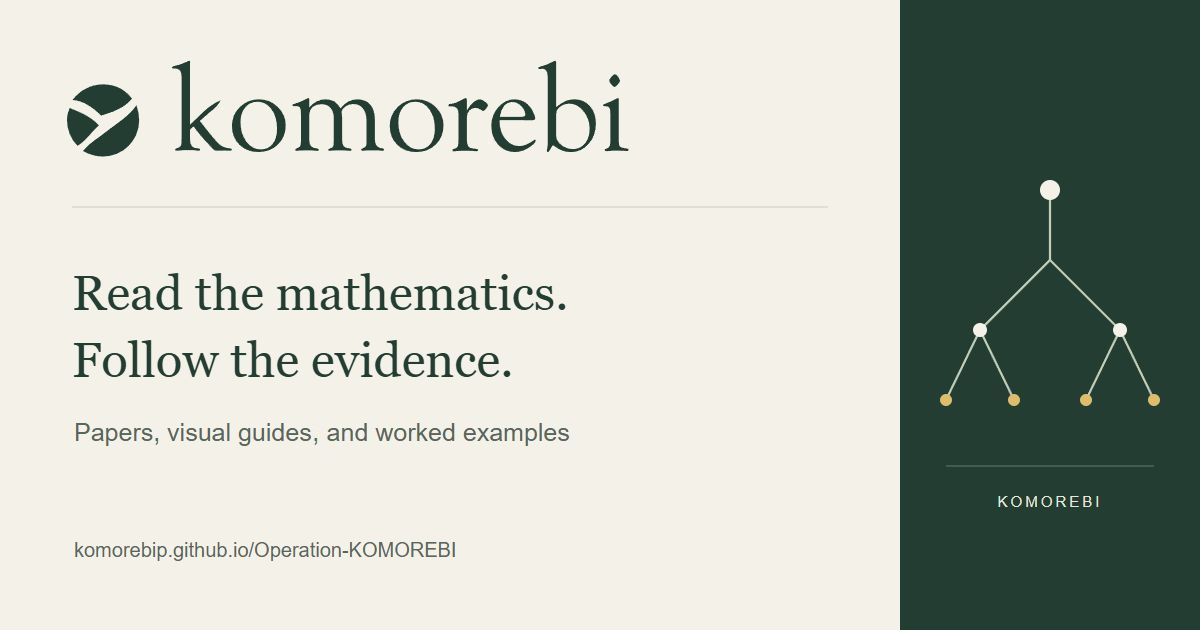
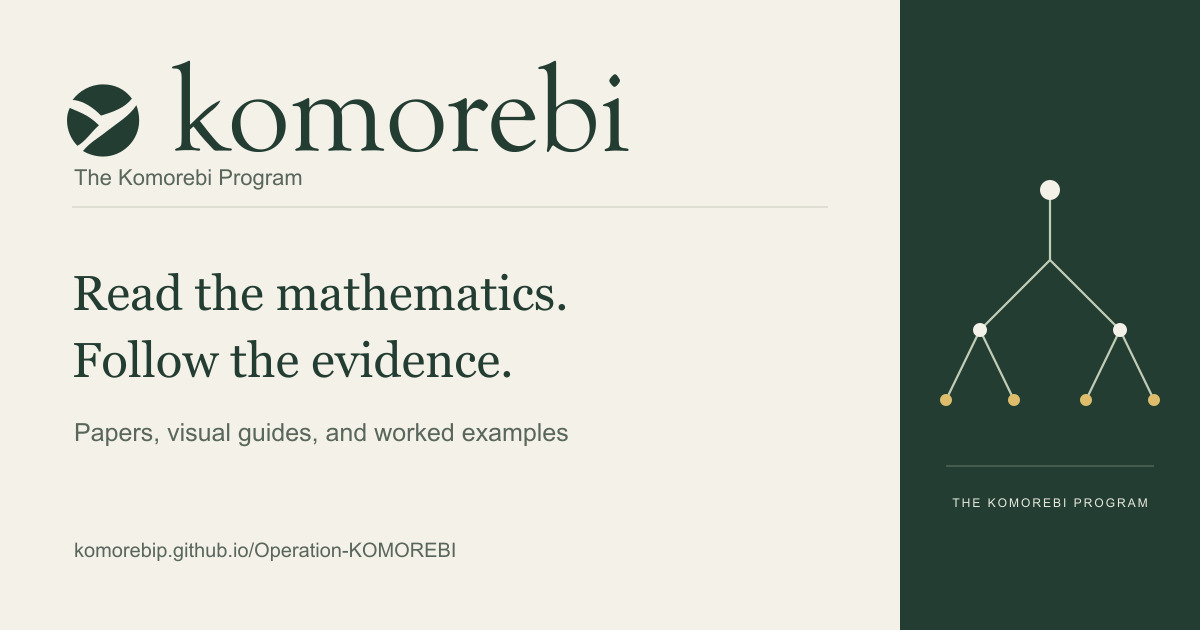
Rename the public project to The Komorebi Program

diff --git a/website/assets/home.css b/website/assets/home.css
@@ -252,7 +252,7 @@ svg.home-tool-icon { padding:.6rem; }
   .home-more > summary,.home-status > summary { font-size:.8rem; }
 }
 @media (max-width:370px) {
-  .home-page .brand small { display:none; }
+  .home-page .brand small { display:block; }
 }
 @media (forced-colors:active) {
   .home-hero::before,.home-route,.home-toolbox,.home-notes,.home-topics,

diff --git a/tools/build_reader_site.py b/tools/build_reader_site.py
@@ -383,14 +383,14 @@ class Site:
 <link rel="icon" type="image/svg+xml" sizes="any" href="'''+brand_assets['favicon.svg']+'''">
 <link rel="icon" type="image/png" sizes="32x32" href="'''+brand_assets['favicon-32.png']+'''">
 <link rel="apple-touch-icon" sizes="180x180" href="'''+brand_assets['apple-touch-icon.png']+'''">
-<title>'''+esc(title)+''' · Komorebi</title><link rel="stylesheet" href="'''+self.rel('assets/reader.css',path)+'?v='+hashlib.sha256((self.root/'website/assets/reader.css').read_bytes()).hexdigest()[:12]+'''">
+<title>'''+esc(title)+''' · The Komorebi Program</title><link rel="stylesheet" href="'''+self.rel('assets/reader.css',path)+'?v='+hashlib.sha256((self.root/'website/assets/reader.css').read_bytes()).hexdigest()[:12]+'''">
 <link rel="stylesheet" href="'''+self.rel('assets/open-research.css',path)+'?v='+hashlib.sha256((self.root/'website/assets/open-research.css').read_bytes()).hexdigest()[:12]+'''">
 <link rel="stylesheet" href="'''+self.rel('assets/side-reader.css',path)+'?v='+hashlib.sha256((self.root/'website/assets/side-reader.css').read_bytes()).hexdigest()[:12]+'''">
 <link rel="stylesheet" href="'''+self.rel('assets/math-display.css',path)+'?v='+hashlib.sha256((self.root/'website/assets/math-display.css').read_bytes()).hexdigest()[:12]+'''">
 <script type="module" src="'''+self.rel('assets/math-display.mjs',path)+'?v='+hashlib.sha256((self.root/'website/assets/math-display.mjs').read_bytes()).hexdigest()[:12]+'''"></script>
 <script defer src="'''+self.rel('assets/mathjax-config.js',path)+'''"></script>'''+mathjax_extra+'''<script defer src="'''+self.rel('assets/mathjax/tex-svg-full.js',path)+'''"></script>
 '''+search_script+'''<script defer src="'''+self.rel('assets/reader.js',path)+'?v='+hashlib.sha256((self.root/'website/assets/reader.js').read_bytes()).hexdigest()[:12]+'''"></script>'''+glossary_script+operator_script+chapter_help_script+home_assets+reading_list_assets+'''</head><body class="open-research'''+(' smith-chart-page' if path=='smith-chart.html' else '')+(' home-page' if path == 'index.html' else '')+(' reading-page' if reading_page else '')+(' work-page' if work_page else '')+(' visual-reading' if visual_page else '')+'''">
-<a class="skip-link" href="#main">Skip to main content</a><header class="site-header"><a class="brand" href="'''+root+'''" aria-label="Komorebi home"><span class="brand-wordmark"><img class="brand-logo" src="'''+brand_assets['komorebi-logo.svg']+'''" alt="Komorebi" width="1320" height="240"><span class="brand-fallback" aria-hidden="true">Komorebi</span><small>Mathematics · proofs · software</small></span></a>'''+nav_html+'''</header>
+<a class="skip-link" href="#main">Skip to main content</a><header class="site-header"><a class="brand" href="'''+root+'''" aria-label="The Komorebi Program home"><span class="brand-wordmark"><img class="brand-logo" src="'''+brand_assets['komorebi-logo.svg']+'''" alt="Komorebi" width="1320" height="240"><span class="brand-fallback" aria-hidden="true">The Komorebi Program</span><small>The Komorebi Program</small></span></a>'''+nav_html+'''</header>
 <main id="main" tabindex="-1">'''+body+'''</main><footer><div class="footer-inner"><nav class="footer-links" aria-label="Project information">'''+source_html+'''<a href="'''+self.rel('collection/PROJECT_STATEMENT.html',path)+'''">Project and authorship statement</a><a href="'''+self.rel('collection/ACCESSIBILITY.html',path)+'''">Accessibility and reporting problems</a><a href="'''+self.rel('sitemap.html',path)+'''">Sitemap</a></nav><a class="footer-github" href="https://github.com/'''+REPOSITORY+'''">Return to GitHub <span aria-hidden="true">↗</span></a></div></footer></body></html>'''
         self.write(path,doc)
     def collect_documents(self):
@@ -676,7 +676,7 @@ class Site:
         for r in self.bundle_records:
             body+='<section id="'+r['work']+'"><h3>'+e(r['title'])+'</h3><p><a download href="'+r['url']+'">Download reading ZIP</a> · '+f'{r["archive_bytes"]/1048576:.1f}'+' MB · '+str(len(r['files']))+' selected files · <a href="downloads.html?work='+r['work']+'#build-a-zip">Choose files</a></p><details><summary>Contents and checksum</summary><ul>'+''.join('<li>'+e(x['path'])+'</li>' for x in r['files'])+'</ul><p>ZIP SHA-256: <code>'+r['archive_sha256']+'</code></p></details><p><a href="collection/works/'+r['work']+'.html">Work, limits, and evidence</a></p></section>'
         self.page('downloads.html','Choose your downloads',body+'</div>')
-        self.page('404.html','Page not found','<h1>This page could not be found</h1><p>Use the <a href="'+BASE_URL+'">Komorebi starting page</a>, <a href="'+BASE_URL+'search.html">search</a>, or <a href="'+BASE_URL+'works.html">work index</a> to find the current page.</p>')
+        self.page('404.html','Page not found','<h1>This page could not be found</h1><p>Use the <a href="'+BASE_URL+'">The Komorebi Program starting page</a>, <a href="'+BASE_URL+'search.html">search</a>, or <a href="'+BASE_URL+'works.html">work index</a> to find the current page.</p>')
     def claim_index(self):
         render_claim_index(self)
     def smith_chart_lab(self):

diff --git a/tools/site_metadata.py b/tools/site_metadata.py
@@ -18,7 +18,7 @@ DESCRIPTIONS = {
     'chemistry-responses.html': 'Explore H10-derived energy scans with reusable action caches. Compare Krylov and nine-state responses, pointwise error bounds, and reproducible evidence.',
     'chemistry-lab.html': 'Recover a nine-state Hamiltonian with three probes, explore exact ambiguity witnesses and conditional error disks, and inspect reproducible chemistry certificates.',
     'sequences.html': 'Search integer sequences and formulas, compare published families, explore exact modular plots, and follow the source derivations.',
-    'index.html': 'Explore mathematical papers, visual guides, recorded proofs, and executable examples in the Komorebi collection.',
+    'index.html': 'Explore mathematical papers, visual guides, recorded proofs, and executable examples in The Komorebi Program.',
     'sitemap.html': 'Browse every Komorebi reader page by section, including papers, books, visual guides, collection records, Lean proofs, and software documentation.',
     'collection/START_HERE.html': 'Start with a worked calculation, choose a reading route, and learn how to interpret the collection’s claims and evidence.',
     'collection/OPERATOR_AUDIT.html': 'A worked operator reference covering maps, algebra, packets, transfer, recovery, and stability, with definitions, examples, exercises, and a practical checklist.',
@@ -117,7 +117,7 @@ def description(path, title, body):
     start = body.find('<article id="chapter-text"')
     paragraphs = Paragraphs(body[start:] if start >= 0 else body).paragraphs
     return compact(paragraphs[0] if paragraphs else
-                   title+'. Read this page and its source links in the Komorebi collection.')
+                   title+'. Read this page and its source links in The Komorebi Program.')
 
 
 @lru_cache(maxsize=1)
@@ -138,7 +138,7 @@ def head_metadata(path, title, body, root=None):
     if not indexable(path):
         tags.append('<meta name="robots" content="noindex,follow">')
     properties = {
-        'og:site_name': 'Komorebi', 'og:type': 'website', 'og:title': title+' · Komorebi',
+        'og:site_name': 'The Komorebi Program', 'og:type': 'website', 'og:title': title+' · The Komorebi Program',
         'og:description': summary, 'og:url': url, 'og:image': image_url,
         'og:image:type': 'image/jpeg', 'og:image:width': image['width'],
         'og:image:height': image['height'], 'og:image:alt': image['alt'],
@@ -202,7 +202,7 @@ def publish_navigation(site):
         return '<ol>'+''.join('<li><a data-reading-entry data-sitemap-entry href="'+
             e(quote(path, safe='/'), quote=True)+'">'+e(titles[path])+'</a></li>' for path in ordered)+'</ol>'
     body = ('<div class="reading-contents-index"><h1>Sitemap</h1>'
-            '<p class="lede">Find your way around the Komorebi collection.</p>'
+            '<p class="lede">Find your way around The Komorebi Program.</p>'
             '<p>Browse pages by section. Open a paper or book to see its chapters, visual guides, and source readers.</p>')
     if 'search.html' in site.discovery_pages:
         body += '<p>Looking for a particular term? <a href="search.html">Search the collection</a>.</p>'
@@ -250,7 +250,7 @@ def verify(root, pages):
         assert meta['og:description'] == meta['description']
         assert meta['og:title'] == ''.join(page.head_title)
         assert meta['og:url'] == canonical_url(path)
-        assert meta['og:site_name'] == 'Komorebi' and meta['og:type'] == 'website'
+        assert meta['og:site_name'] == 'The Komorebi Program' and meta['og:type'] == 'website'
         assert meta['og:image'] == image_url and meta['og:image:type'] == 'image/jpeg'
         assert (meta['og:image:width'], meta['og:image:height']) == ('1200', '630')
         assert meta['og:image:alt'] == meta['twitter:image:alt'] == record['alt']

diff --git a/tools/update_source_navigation.py b/tools/update_source_navigation.py
@@ -220,11 +220,11 @@ class Renderer:
         if self.browser:
             self.outputs.update(self.browser.render())
         page='README.md'; w=lambda i,t=None:self.work(i,page,t)
-        text='''# Realization Calculus and Komorebi Space
+        text='''# The Komorebi Program
 
 **Komorebi P. · Work in progress**
 
-Komorebi studies how mathematical objects can be represented in parts, transformed through those parts, and reconstructed. It asks what a change of representation preserves, what it loses, and how the difference can be measured.
+The Komorebi Program studies how mathematical objects can be represented in parts, transformed through those parts, and reconstructed. It asks what a change of representation preserves, what it loses, and how the difference can be measured.
 
 Realization Calculus develops the mathematics of decomposition, transfer, refinement, and reconstruction. Komorebi Space provides a setting for comparing realizations and the conditions under which they are compatible.
 
@@ -493,7 +493,7 @@ A successful file-integrity check identifies exact source bytes. A separate repl
 
 **Realization Calculus and Komorebi Space · Komorebi P.**
 
-Komorebi studies how mathematical structure behaves when its description changes. Decomposing an object, changing coordinates, or forming an abstraction can make a problem easier to approach. The question is whether that description retains enough information for the task, and how to account for what is lost.
+The Komorebi Program studies how mathematical structure behaves when its description changes. Decomposing an object, changing coordinates, or forming an abstraction can make a problem easier to approach. The question is whether that description retains enough information for the task, and how to account for what is lost.
 
 Realization Calculus develops decomposition, transfer, refinement, and reconstruction through packets, seeds, coordinates, and explicit residuals. Komorebi Space provides a setting for comparing realizations, their compatibility conditions, and the obstructions to moving between them.
 
@@ -658,7 +658,7 @@ The three canonical repositories are public:
 
 | Repository | Role |
 |---|---|
-| [Operation-KOMOREBI]({REPO_URL}) | Realization Calculus, Komorebi Space, papers, companion volumes, formal developments, experiments, and additional software. |
+| [The Komorebi Program]({REPO_URL}) | Realization Calculus, Komorebi Space, papers, companion volumes, formal developments, experiments, and additional software. |
 | [komorebi-math](https://github.com/KomorebiP/komorebi-math) | Python library, **beta / work in progress**. |
 | [polyphase-float](https://github.com/KomorebiP/polyphase-float) | C numerical library, **beta / work in progress**. |
 

diff --git a/tools/home_page.py b/tools/home_page.py
@@ -89,7 +89,7 @@ def entry_slides():
         '<a class="button button-secondary" href="'+secondary_target+'">'+secondary_link+'</a></div></section>'
         for key, label, description, target, link, secondary_target, secondary_link in entries)
     return ('<div class="home-copy home-entry-showcase" aria-label="Ways into the collection">'
-            '<div class="home-entry-feature"><p class="home-kicker">The Komorebi research collection</p>'
+            '<div class="home-entry-feature"><p class="home-kicker">The Komorebi Program</p>'
             '<h1 id="home-title">Explore the ideas.<br><em>Follow the evidence.</em></h1>'
             '<div class="home-entry-panels">'+panels+'</div>'
             '<div class="home-slide-controls home-entry-controls" hidden>'
@@ -134,7 +134,7 @@ def home_page():
 <div class="home-future-links"><a href="collection/FUTURE_DEVELOPMENTS.html#main-research-directions">Research directions</a><a href="collection/FUTURE_DEVELOPMENTS.html#refining-the-current-work">Refining the current work</a><a href="collection/FUTURE_DEVELOPMENTS.html#website-and-github-accessibility-and-use">Website and GitHub improvements</a></div></section>
 <div class="home-notes"><details class="home-more"><summary>Explore the collections and how they connect</summary>
 <div class="home-collection-list"><h2>Three repositories, one place to begin</h2><dl>
-<dt><a href="collection/index.html">Operation KOMOREBI</a></dt><dd>Papers, books, research programs, formal sources, and evidence.</dd>
+<dt><a href="collection/index.html">The Komorebi Program</a></dt><dd>Papers, books, research programs, formal sources, and evidence.</dd>
 <dt><a href="math/index.html">Komorebi Math</a></dt><dd>A Python library for finite mathematical constructions and inspectable certificates.</dd>
 <dt><a href="polyphase/index.html">Polyphase Float</a></dt><dd>A C library for arbitrary-precision binary floating-point arithmetic.</dd></dl>
 <h3>What connects the work?</h3><p>Describe an object in parts, transfer operations through those parts, and account for what a change of representation preserves or loses.</p>

diff --git a/tools/test_site_metadata.py b/tools/test_site_metadata.py
@@ -35,9 +35,9 @@ class MetadataTests(unittest.TestCase):
     def test_metadata_escapes_titles_and_prose_without_inventing_markup(self):
         title='α < β & "quoted"'
         text='A reader can inspect "quoted" assumptions & comparisons in this deliberately literal description of the current page.'
-        page=Page('<head><title>α &lt; β &amp; "quoted" · Komorebi</title>'+head_metadata('read/a.html',title,'<p>'+text.replace('&','&amp;')+'</p>')+'</head>')
+        page=Page('<head><title>α &lt; β &amp; "quoted" · The Komorebi Program</title>'+head_metadata('read/a.html',title,'<p>'+text.replace('&','&amp;')+'</p>')+'</head>')
         meta=dict(page.metadata)
-        self.assertEqual(meta['og:title'],title+' · Komorebi')
+        self.assertEqual(meta['og:title'],title+' · The Komorebi Program')
         self.assertEqual(meta['description'],text)
         self.assertEqual(meta['og:description'],text)
         self.assertEqual(meta['og:url'],BASE_URL+'read/a.html')

diff --git a/tools/reader_delivery.py b/tools/reader_delivery.py
@@ -217,7 +217,7 @@ def package(root, artifacts):
     (root/'delivery-report.json').write_text(json.dumps(report, indent=2)+'\n', encoding='utf-8')
     (artifacts/'delivery-manifest.json').write_text(json.dumps(manifest, indent=2)+'\n', encoding='utf-8')
     (artifacts/'SHA256SUMS.txt').write_text(''.join(record['sha256']+'  '+record['asset']+'\n' for record in records.values()), encoding='utf-8')
-    (artifacts/'RELEASE.md').write_text('Reader downloads for Operation-KOMOREBI revision `'+revision+'`.\n\n'
+    (artifacts/'RELEASE.md').write_text('Reader downloads for The Komorebi Program revision `'+revision+'`.\n\n'
         'These are the byte-identical reading ZIPs and raw JSON exports validated before Pages packaging. '
         'The site retains its reading content and serves compressed copies of interactive indexes. '
         'Archive contents, source bytes, and SHA-256 identities are preserved.\n', encoding='utf-8')

diff --git a/tools/test_side_reader.py b/tools/test_side_reader.py
@@ -45,7 +45,7 @@ class SideReaderTests(unittest.TestCase):
             for name in ['read/work/main.html','collection/works/work.html','assets/pdfjs/web/viewer.html','side-by-side.html','404.html','sitemap.html']:
                 target=root/name
                 target.parent.mkdir(parents=True,exist_ok=True)
-                target.write_text('<title>A &amp; B · Komorebi</title>',encoding='utf-8')
+                target.write_text('<title>A &amp; B · The Komorebi Program</title>',encoding='utf-8')
             site=SimpleNamespace(output=root,revision='a'*40,
                 search=[dict(url='read/work/main.html#L3',title='A claim',kind='Claims',work_ids=['work'],text='Source text'),
                         dict(url='missing.html',title='Missing')],

diff --git a/tools/side_reader.py b/tools/side_reader.py
@@ -84,7 +84,7 @@ def catalogue(site):
             continue
         text = file.read_text(encoding='utf-8')
         title = re.search(r'<title>(.*?)</title>', text, re.S)
-        pages[path] = html.unescape(title[1]).removesuffix(' · Komorebi')
+        pages[path] = html.unescape(title[1]).removesuffix(' · The Komorebi Program')
     entries = []
     seen = set()
     for row in site.search:

diff --git a/docs/START_HERE.md b/docs/START_HERE.md
@@ -2,7 +2,7 @@
 
 **Realization Calculus and Komorebi Space · Komorebi P.**
 
-Komorebi studies how mathematical structure behaves when its description changes. Decomposing an object, changing coordinates, or forming an abstraction can make a problem easier to approach. The question is whether that description retains enough information for the task, and how to account for what is lost.
+The Komorebi Program studies how mathematical structure behaves when its description changes. Decomposing an object, changing coordinates, or forming an abstraction can make a problem easier to approach. The question is whether that description retains enough information for the task, and how to account for what is lost.
 
 Realization Calculus develops decomposition, transfer, refinement, and reconstruction through packets, seeds, coordinates, and explicit residuals. Komorebi Space provides a setting for comparing realizations, their compatibility conditions, and the obstructions to moving between them.
 

diff --git a/docs/SOURCE_COVERAGE.md b/docs/SOURCE_COVERAGE.md
@@ -103,7 +103,7 @@ No other named entry in this 74-entry inventory remains unaccounted for. This is
 | 40 | K-COS end-to-end Lean continuation | Source package | [monographs/cos-method/formal-continuation](https://github.com/KomorebiP/Operation-KOMOREBI/tree/main/monographs/cos-method/formal-continuation) |
 | 41 | J-Space Causal Lab1.4 | Source package | [experiments/jspace-causal-lab](https://github.com/KomorebiP/Operation-KOMOREBI/tree/main/experiments/jspace-causal-lab) |
 | 42 | Workspace Incubator0.6 | Source package | [experiments/workspace-incubator](https://github.com/KomorebiP/Operation-KOMOREBI/tree/main/experiments/workspace-incubator) |
-| 43 | Operation-KOMOREBI GitHub hub | Collection repository | [KomorebiP/Operation-KOMOREBI](https://github.com/KomorebiP/Operation-KOMOREBI) |
+| 43 | The Komorebi Program GitHub hub | Collection repository | [The Komorebi Program](https://github.com/KomorebiP/Operation-KOMOREBI) |
 
 ### Physics and methodology
 

diff --git a/docs/PROJECT_STATEMENT.md b/docs/PROJECT_STATEMENT.md
@@ -2,7 +2,7 @@
 
 **Komorebi P. · First published 27 October 2026**
 
-Komorebi is my independent mathematical research project, published under the name **Komorebi P.** It brings together manuscripts, formal developments, software, calculations, experiments, and guides for readers.
+The Komorebi Program is my independent mathematical research project, published under the name **Komorebi P.** It brings together manuscripts, formal developments, software, calculations, experiments, and guides for readers.
 
 At its center is Realization Calculus, which studies how mathematical objects are represented, decomposed, transferred, and reconstructed, and what information or obstructions remain after those operations. Komorebi Space provides a framework for comparing compatible realizations. The individual works develop different parts of this program, each with its own assumptions, claims, and supporting evidence.
 
